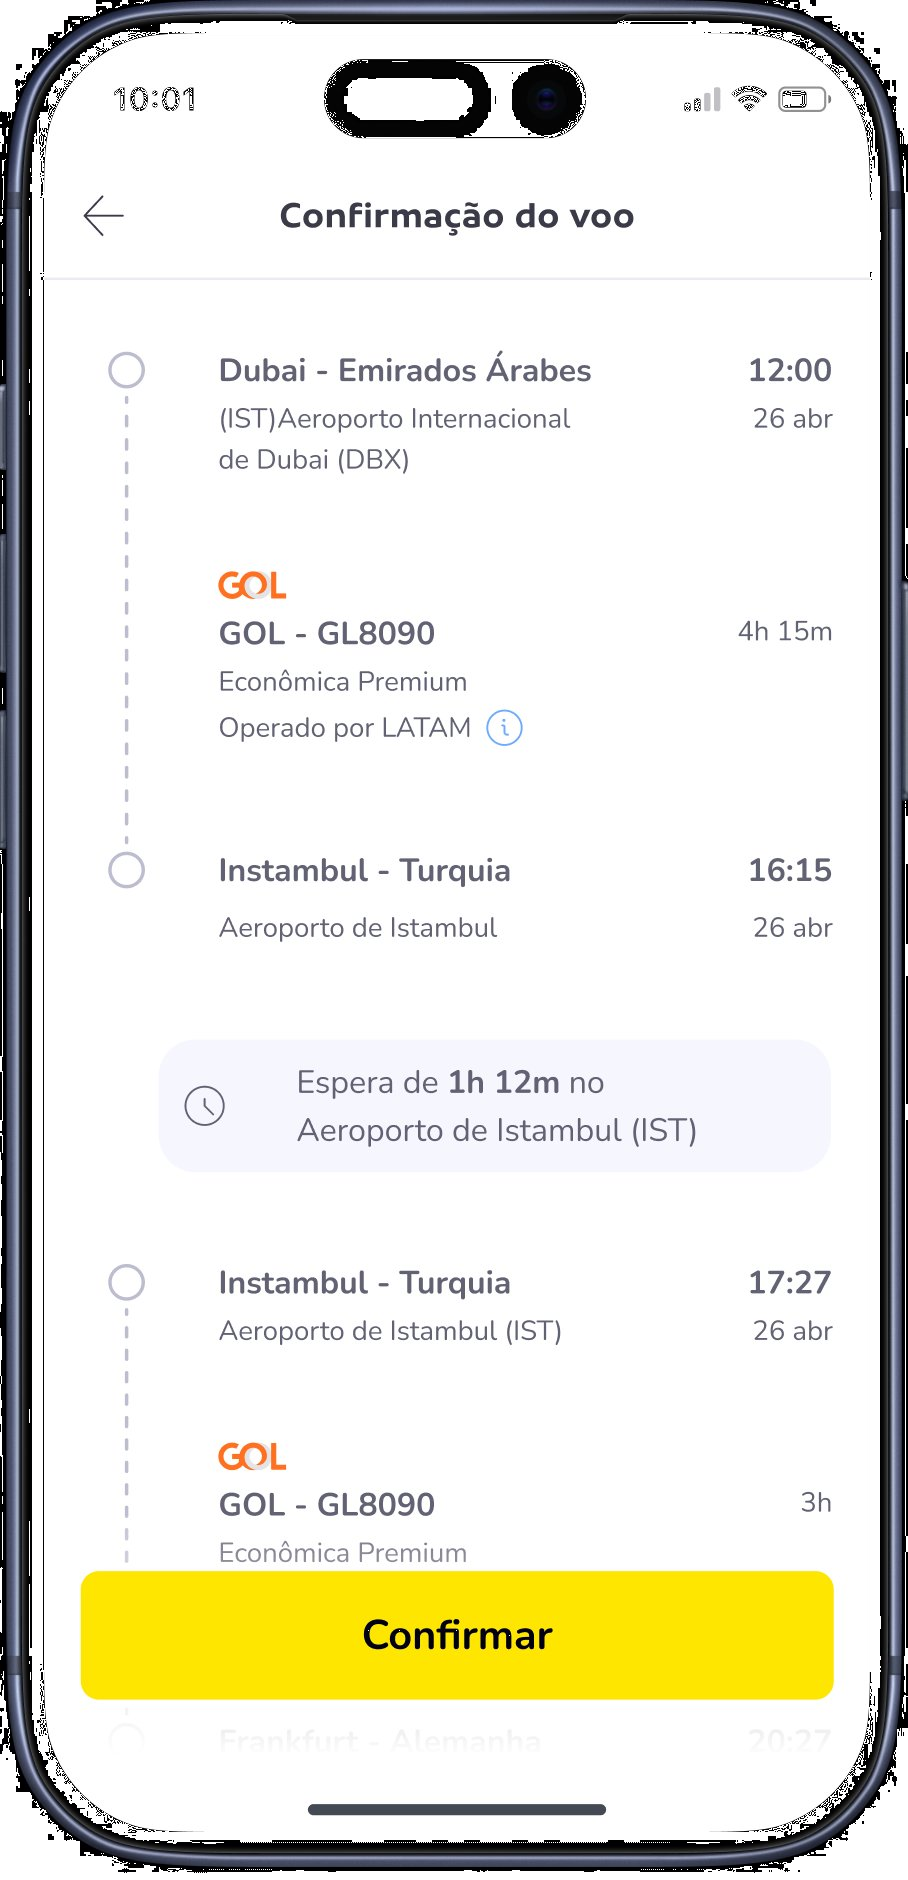
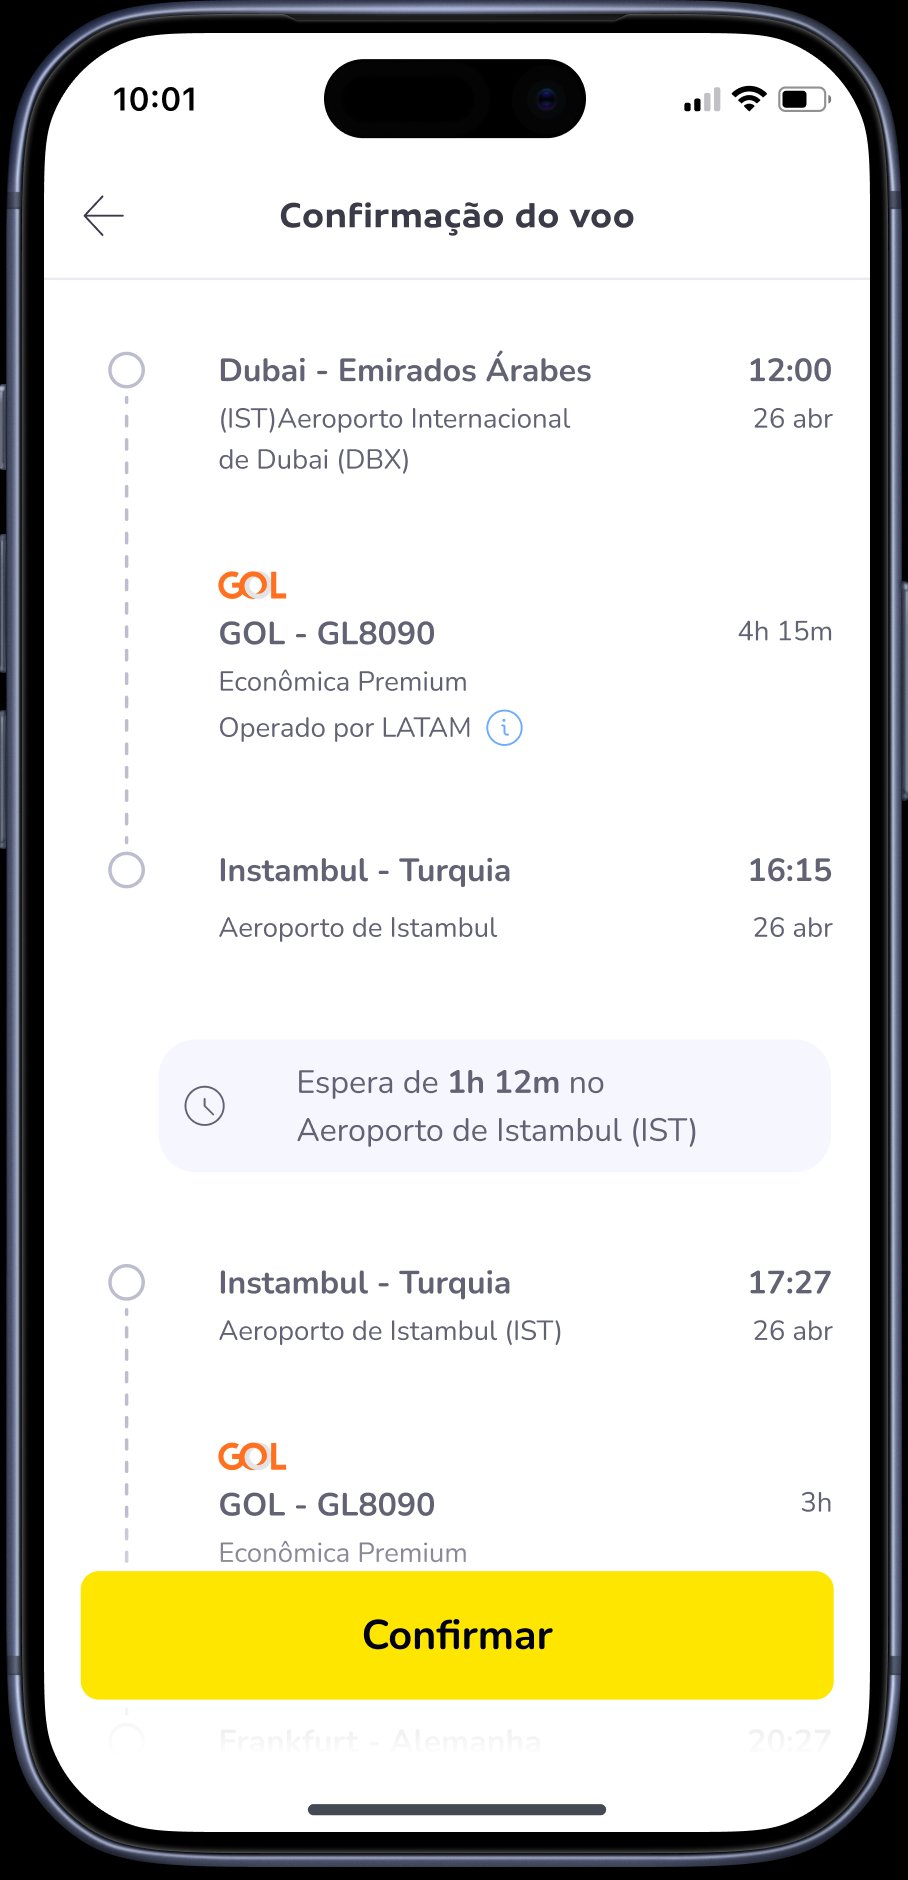
CVC hero: pure #000 behind phones so RGB PNG black edges are invisible, blue glow only at bottom

Changed region(s): [[0.0, 0.0, 1.0, 1.0]]

diff --git a/app/work/cvc/page.tsx b/app/work/cvc/page.tsx
@@ -194,8 +194,10 @@ function CinematicHero() {
   return (
     <div ref={ref} style={{ height: "220vh", position: "relative" }}>
       <div style={{ position: "sticky", top: 0, height: "100vh", overflow: "hidden", background: "#000", display: "flex", alignItems: "center", justifyContent: "center" }}>
-        {/* Glow only at bottom — doesn't create contrast with phone edges */}
-        <div style={{ position: "absolute", inset: 0, background: `radial-gradient(ellipse 80% 40% at 50% 100%, rgba(0,113,227,${.35 - p * .2}) 0%, transparent 70%)` }} />
+        {/* Pure #000 background — PNG black edges blend perfectly */}
+        <div style={{ position: "absolute", inset: 0, background: "#000" }} />
+        {/* Blue glow ONLY under phones as a separate element */}
+        <div style={{ position: "absolute", bottom: 0, left: 0, right: 0, height: "50%", background: `radial-gradient(ellipse 70% 60% at 50% 100%, rgba(0,113,227,${.4 - p * .25}) 0%, transparent 80%)`, pointerEvents: "none" }} />
 
         {/* Headline — top half, above phones */}
         <div style={{ position: "absolute", top: 0, left: 0, right: 0, zIndex: 20, textAlign: "center", padding: "7rem 2rem 3rem", opacity: 1 - p * 1.8, transform: `translateY(${p * -40}px)`, pointerEvents: p > 0.5 ? "none" : "auto", background: "linear-gradient(to bottom, rgba(0,0,0,0.9) 60%, transparent 100%)" }}>
